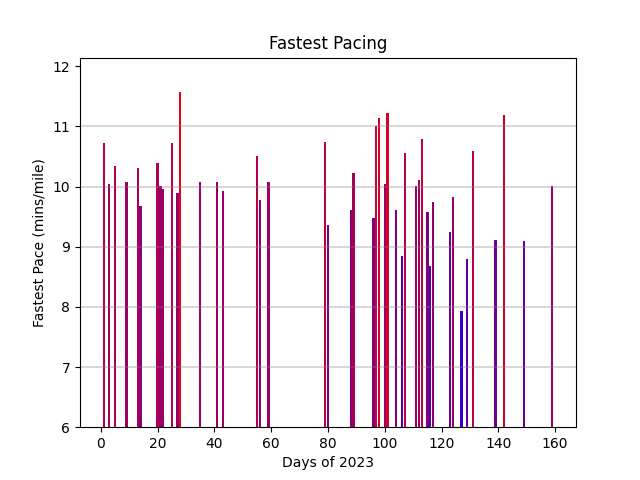
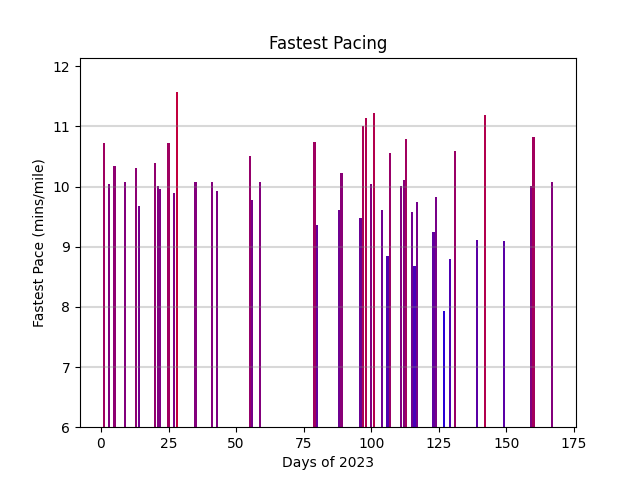
new

diff --git a/progress.py b/progress.py
@@ -187,9 +187,8 @@ def colormap(pace):
     # 6 -> 0 -> (0,0,1) (blue)
     # 12 -> 1 -> (1,0,0) (red)
     fastest = 7
-    slowest = 12
+    slowest = 13
     scaled = (np.array(pace) - fastest)/(slowest-fastest)
-    # print(scaled)
     red = scaled
     blue = 1 - red
     return [(red[i], 0, blue[i]) for i in range(len(scaled))]
